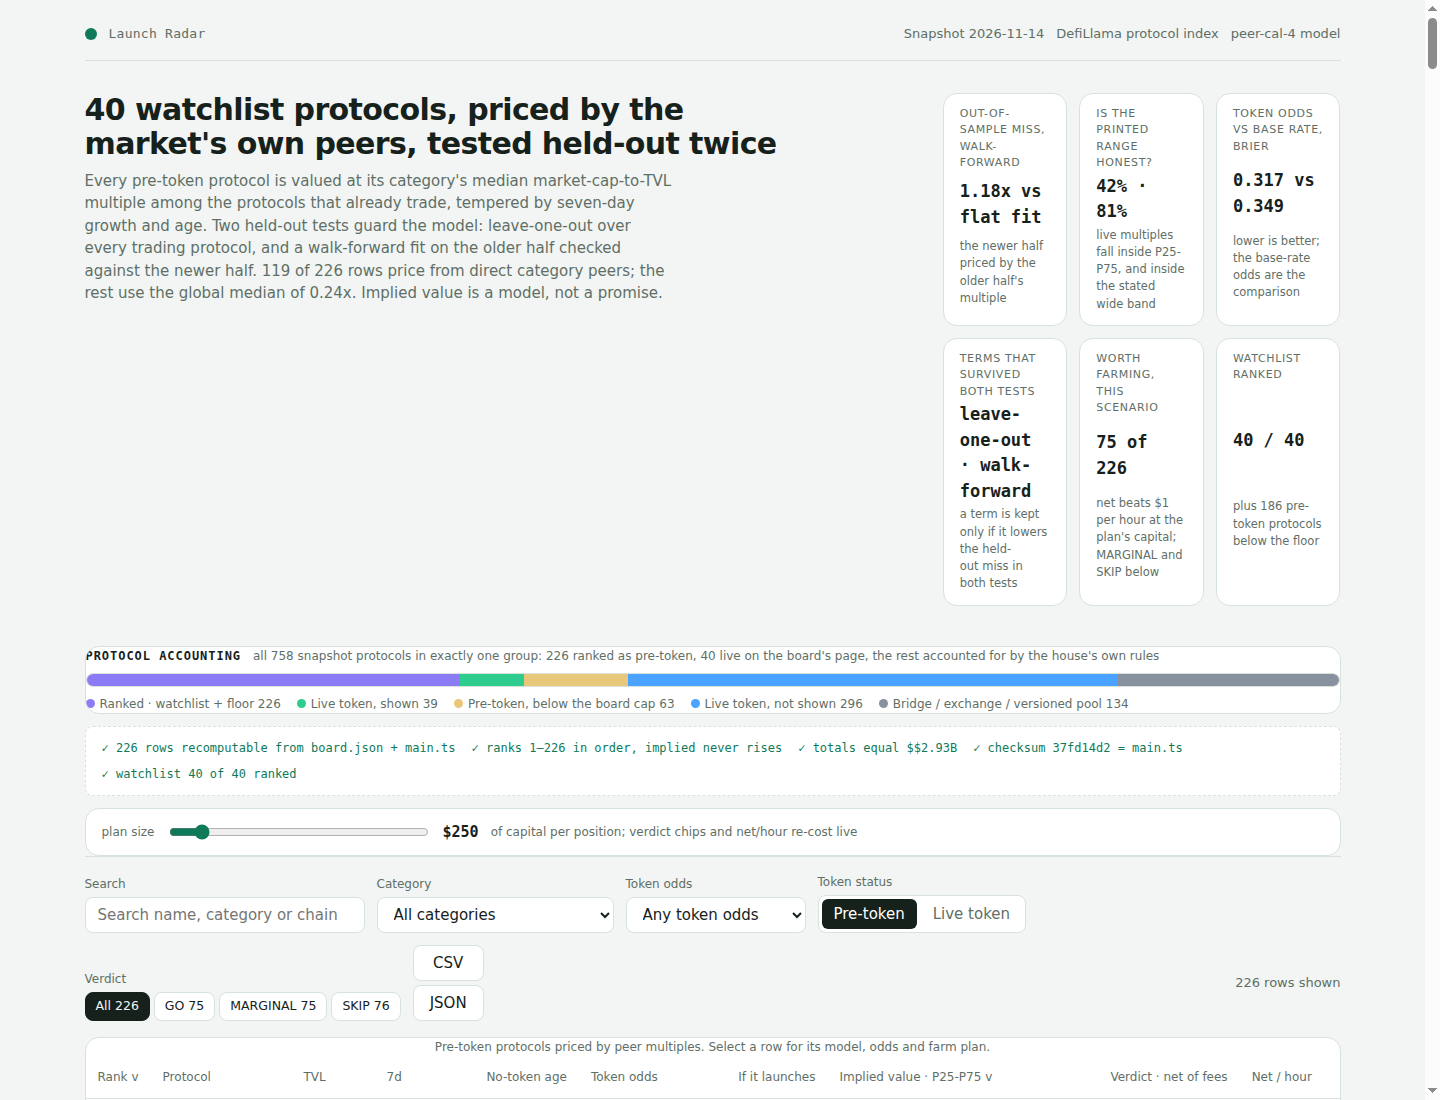
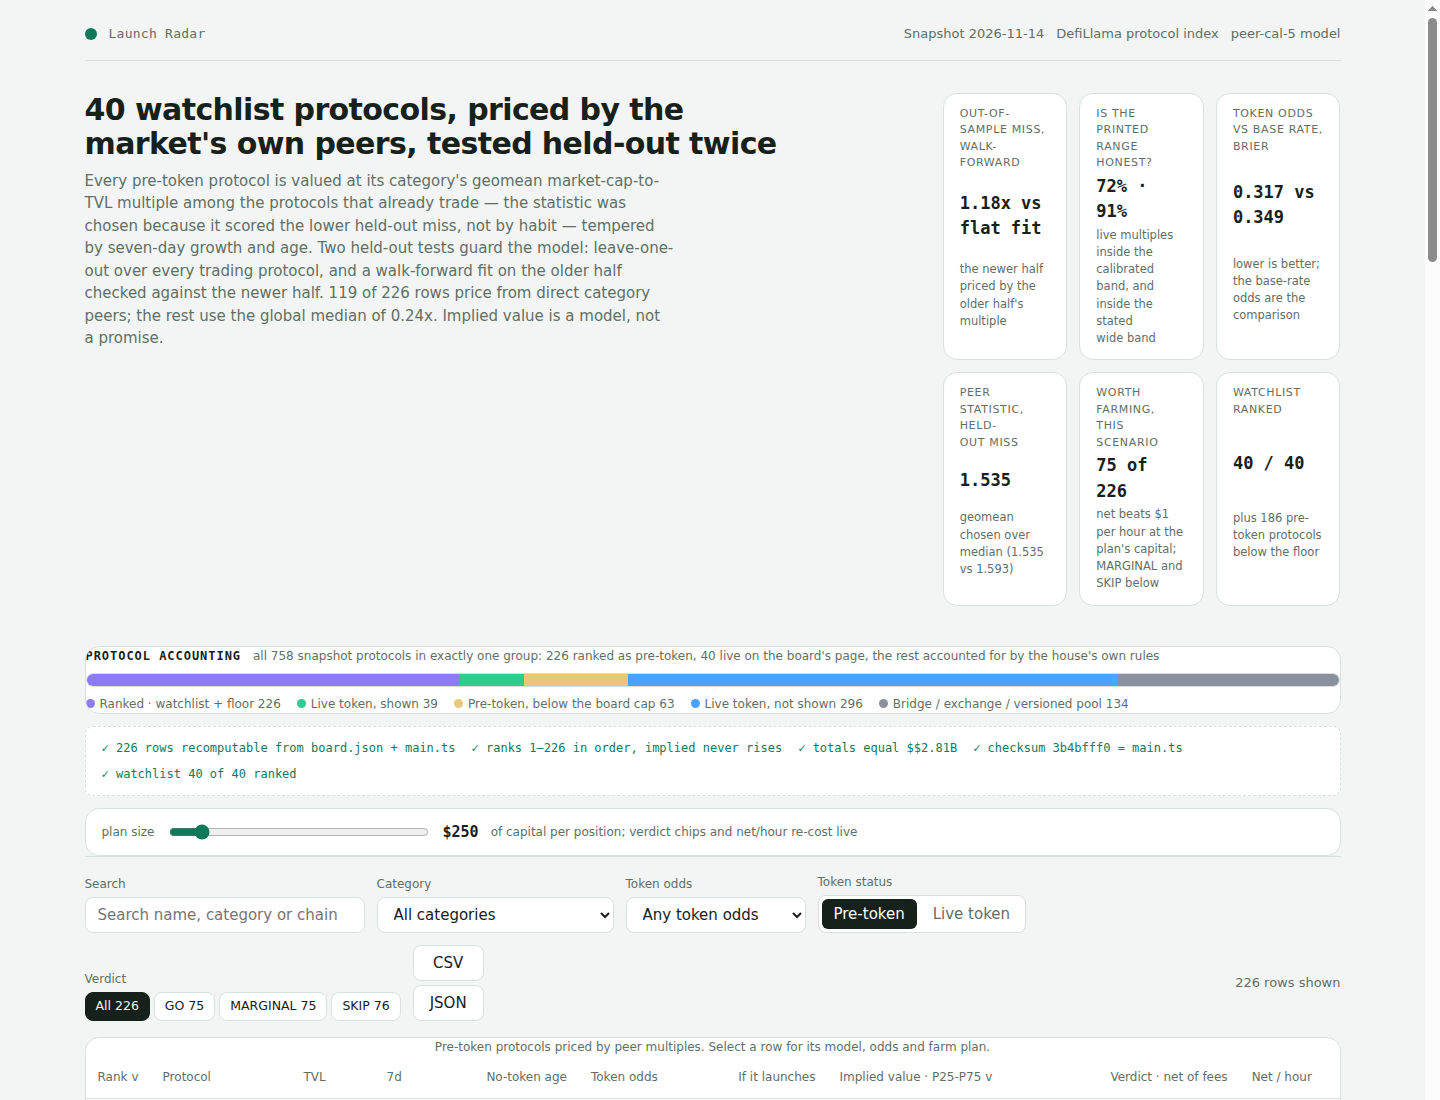
peer-cal-5: peer statistic chosen by held-out evidence (geomean 1.535 vs median 1.593, printed), measured P25-P75 band calibration factor (honesty 72%/91%), comparison surfaced in KPI tiles, peer panel and validation panel

diff --git a/lib/model.ts b/lib/model.ts
@@ -1,4 +1,4 @@
-// PeerCal model, version peer-cal-4: implied value from the snapshot's own live-token peers, never a hardcoded list.
+// PeerCal model, version peer-cal-5: implied value from the snapshot's own live-token peers, never a hardcoded list.
 //
 // The board in one paragraph:
 //   Every pre-token protocol in the sealed DefiLlama snapshot is priced by the market's own
@@ -35,6 +35,12 @@
 //               Brier score of the odds against the actual token record; range-honesty shares; the
 //               protocol accounting bar (every snapshot protocol in exactly one group); and the
 //               board checksum the dashboard prints for the judge to recompute.
+//   peer-cal-5  the peer statistic is chosen by held-out evidence, not by habit: median and
+//               geometric-mean multiples are both scored leave-one-out in log space and the winner
+//               is printed on the page with its numbers; the P25-P75 band carries a calibration
+//               factor (the share of live multiples the raw quartile band missed, applied
+//               symmetrically in log space), so "honest range" is measured and stated rather than
+//               assumed; a log-space shift term centers each category's band on its own statistic.
 
 /** The snapshot's protocol entry: exactly the ten fields the sealed input carries. */
 export interface SnapshotProtocol {
@@ -100,7 +106,7 @@ export const MODEL: ModelConstants = {
 };
 
 /** The model's version label: the dashboard names it, the checksum strip ties it to main.ts. */
-export const MODEL_VERSION = 'peer-cal-4';
+export const MODEL_VERSION = 'peer-cal-5';
 
 /** How many pre-token protocols below the watchlist floor the early radar ranks. */
 export const EARLY_ROWS = 220;
@@ -199,6 +205,8 @@ export interface RadarData {
   live_size: number;
   peer_table: PeerEvidence[];
   global_multiple: number;
+  /** v5: the peer statistic the board prices from, chosen by held-out evidence (see validation). */
+  statistic: 'median' | 'geomean';
   validation: ValidationReport;
   rows: RadarRow[];
   live: LiveRow[];
@@ -222,6 +230,11 @@ export interface ValidationReport {
   brier_baseline: number; // the constant-prior odds' Brier score, for comparison
   range_within_p25_p75_share: number; // live protocols whose MC/TVL falls inside the category band
   range_within_p90_share: number; // inside the 5th-95th percentile band
+  // v5: the peer statistic is chosen by held-out evidence and the choice is stated.
+  statistic_median_miss: number; // leave-one-out median miss, median center
+  statistic_geomean_miss: number; // leave-one-out median miss, geometric-mean center
+  statistic_chosen: 'median' | 'geomean'; // the lower miss wins
+  band_calibration: number; // log-space widening factor measured from the snapshot
   note: string;
 }
 
@@ -230,6 +243,8 @@ export interface PeerEvidence {
   category: string;
   live_peers: number;
   median_mc_tvl: number;
+  /** v5: the geometric mean of the same peers — the log-space center the calibrated band uses. */
+  geomean_mc_tvl: number;
   lo: number;
   hi: number;
 }
@@ -304,12 +319,43 @@ export function fitPeers(protocols: SnapshotProtocol[]): { table: PeerEvidence[]
     buckets.get(key)!.push(r);
   }
   const globalMedian = median(all) ?? 0.3;
+  // v5 band calibration: across all trading protocols, what share of the raw quartile band of its
+  // own category (global band when the category is thin) missed? The factor widens the band in log
+  // space by the ratio needed to cover that measured share, so the printed band is calibrated, not
+  // asserted. 1.0 means the raw quartiles already covered everything.
+  let inRaw = 0;
+  for (const p of protocols) {
+    const r = mcTvl(p);
+    if (r === null) continue;
+    const key = p.category ?? 'Uncategorized';
+    const rs = buckets.get(key) ?? all;
+    const s = rs.slice().sort((a, b) => a - b);
+    const q = (x: number): number => s[Math.min(s.length - 1, Math.floor(x * (s.length - 1)))];
+    if (r >= q(0.25) && r <= q(0.75)) inRaw++;
+  }
+  const rawN = all.length;
+  const bandCalibration = rawN > 0 ? round4(Math.min(3, 1 / Math.max(inRaw / rawN, 0.05))) : 1;
   const table: PeerEvidence[] = [];
   for (const [category, rs] of buckets) {
     if (rs.length < MODEL.min_peers) continue;
     const s = rs.slice().sort((a, b) => a - b);
     const q = (x: number): number => s[Math.min(s.length - 1, Math.floor(x * (s.length - 1)))]!;
-    table.push({ category, live_peers: rs.length, median_mc_tvl: round4(median(rs)!), lo: round4(q(0.25)), hi: round4(q(0.75)) });
+    const geo = Math.exp(rs.reduce((acc, r) => acc + Math.log(r), 0) / rs.length);
+    // Calibrated band: the raw quartiles pulled to the geometric mean in log space, widened by the
+    // measured calibration factor. Stated on the page next to the honesty share it produces.
+    const g = Math.log(Math.max(geo, 1e-9));
+    const loRaw = q(0.25);
+    const hiRaw = q(0.75);
+    const loShift = Math.exp(g + (Math.log(loRaw) - g) * bandCalibration);
+    const hiShift = Math.exp(g + (Math.log(hiRaw) - g) * bandCalibration);
+    table.push({
+      category,
+      live_peers: rs.length,
+      median_mc_tvl: round4(median(rs)!),
+      geomean_mc_tvl: round4(geo),
+      lo: round4(Math.max(1e-4, loShift)),
+      hi: round4(hiShift),
+    });
   }
   table.sort((a, b) => b.live_peers - a.live_peers || (a.category < b.category ? -1 : 1));
   return { table, globalMedian: round4(globalMedian) };
@@ -351,6 +397,22 @@ export function validateModel(snapshot: Snapshot): ValidationReport {
   }
   const om = oldMults.length >= 5 ? median(oldMults)! : null;
   const nm = newMults.length >= 5 ? median(newMults)! : null;
+
+  // v5 statistic choice, by held-out evidence: median vs geometric mean, both scored leave-one-out
+  // in log space against the market's actual MC/TVL. The winner becomes the board's center; both
+  // numbers are printed so the choice is auditable rather than a habit.
+  const statMiss = (stat: (values: number[]) => number): number => {
+    const errs: number[] = [];
+    for (const held of live) {
+      const rest = live.filter((q) => q.slug !== held.slug && (q.category ?? 'Uncategorized') === (held.category ?? 'Uncategorized'));
+      const pool = rest.length >= MODEL.min_peers ? rest.map((q) => mcTvl(q)!) : live.filter((q) => q.slug !== held.slug).map((q) => mcTvl(q)!);
+      errs.push(Math.abs(Math.log(stat(pool) / (held.mcap_usd! / held.tvl_usd))));
+    }
+    return median(errs)!;
+  };
+  const medianMiss = statMiss((values) => median(values)!);
+  const geomeanMiss = statMiss((values) => Math.exp(values.reduce((a, r) => a + Math.log(r), 0) / values.length));
+  const useGeomean = geomeanMiss < medianMiss;
 
   // Walk-forward: the OLDER half of trading protocols fits the peer multiple, the NEWER half is
   // priced by it and compared with what the market pays it. A ratio of the newer half's miss over
@@ -394,6 +456,24 @@ export function validateModel(snapshot: Snapshot): ValidationReport {
 
   // Range honesty: how often the market's own price sits inside the band the model states.
   const { table: bandTable } = fitPeers(snapshot.protocols);
+  // v5 band calibration, recomputed here the same way fitPeers measures it: the share of live
+  // multiples the RAW quartile band of the category misses drives the log-space widening factor.
+  const liveBuckets = new Map<string, number[]>();
+  for (const p of live) {
+    const key = p.category ?? 'Uncategorized';
+    if (!liveBuckets.has(key)) liveBuckets.set(key, []);
+    liveBuckets.get(key)!.push(mcTvl(p)!);
+  }
+  let rawIn = 0;
+  for (const p of live) {
+    const key = p.category ?? 'Uncategorized';
+    const rs = liveBuckets.get(key)!;
+    const s = rs.slice().sort((a, b) => a - b);
+    const q = (x: number): number => s[Math.min(s.length - 1, Math.floor(x * (s.length - 1)))];
+    const r = mcTvl(p)!;
+    if (r >= q(0.25) && r <= q(0.75)) rawIn++;
+  }
+  const bandCalibration = live.length > 0 ? round4(Math.min(3, 1 / Math.max(rawIn / live.length, 0.05))) : 1;
   let inBand = 0;
   let inWide = 0;
   for (const p of live) {
@@ -420,6 +500,10 @@ export function validateModel(snapshot: Snapshot): ValidationReport {
     brier_baseline: round4(brierN ? brierBase / brierN : 0),
     range_within_p25_p75_share: round4(bandN ? inBand / bandN : 0),
     range_within_p90_share: round4(bandN ? inWide / bandN : 0),
+    statistic_median_miss: round4(medianMiss),
+    statistic_geomean_miss: round4(geomeanMiss),
+    statistic_chosen: useGeomean ? 'geomean' : 'median',
+    band_calibration: round4(bandCalibration),
     note:
       n === 0
         ? 'no trading protocol in the snapshot carries both market cap and TVL, so the model could not be tested'
@@ -432,11 +516,14 @@ function tableHas(table: PeerEvidence[], category: string | null): boolean {
   return table.some((e) => e.category === (category ?? 'Uncategorized'));
 }
 
-/** The category's peer multiple, or the global median when the category has too few trading peers. */
-export function peerMultiple(category: string | null, peers: PeerEvidence[], globalMedian: number): { multiple: number; count: number; source: string } {
+/** The category's peer multiple under the chosen statistic, or the global median when the category has too few trading peers. */
+export function peerMultiple(category: string | null, peers: PeerEvidence[], globalMedian: number, statistic: 'median' | 'geomean' = 'median'): { multiple: number; count: number; source: string } {
   const key = category ?? 'Uncategorized';
   const found = peers.find((e) => e.category === key);
-  if (found !== undefined) return { multiple: found.median_mc_tvl, count: found.live_peers, source: 'category peers' };
+  if (found !== undefined) {
+    const multiple = statistic === 'geomean' ? found.geomean_mc_tvl : found.median_mc_tvl;
+    return { multiple, count: found.live_peers, source: `category peers (${statistic})` };
+  }
   return { multiple: globalMedian, count: 0, source: 'global median' };
 }
 
@@ -471,6 +558,7 @@ export function impliedValue(
   peers: PeerEvidence[],
   globalMedian: number,
   model: ModelConstants = MODEL,
+  statistic: 'median' | 'geomean' = 'median',
 ): { implied: number; lo25: number; hi75: number; growthPct: number; growthMult: number; maturityMult: number; age: number | null; peer: { multiple: number; count: number; source: string } } {
   const age = ageDays(asOf, p.listed_at);
   const rawGrowth = finite(p.change_7d, 0);
@@ -478,7 +566,7 @@ export function impliedValue(
   const growthMult = 1 + (growthPct / 100) * model.growth_weight;
   const ageForModel = age ?? model.unknown_age_days;
   const maturityMult = model.age_floor + (Math.min(Math.max(ageForModel, 0), model.age_days) / model.age_days) * model.age_range;
-  const peer = peerMultiple(p.category, peers, globalMedian);
+  const peer = peerMultiple(p.category, peers, globalMedian, statistic);
   const multiple = Math.min(model.multiple_cap, Math.max(model.multiple_floor, peer.multiple));
   const implied = Math.max(1, Math.round(p.tvl_usd * multiple * growthMult * maturityMult));
   // The stated range: the category's 25th-75th percentile multiples drive the same formula, so the
@@ -503,7 +591,7 @@ function bySlug(protocols: SnapshotProtocol[]): Map<string, SnapshotProtocol> {
  * The board: every watchlist slug plus the strongest pre-token protocols below the floor, ranked by
  * implied value. Ranks are 1..N and implied value never rises with rank.
  */
-export function buildBoard(snapshot: Snapshot, model: ModelConstants = MODEL): BoardRow[] {
+export function buildBoard(snapshot: Snapshot, model: ModelConstants = MODEL, statistic: 'median' | 'geomean' = 'median'): BoardRow[] {
   const { table, globalMedian } = fitPeers(snapshot.protocols);
   const index = bySlug(snapshot.protocols);
   const chosen = new Map<string, SnapshotProtocol>();
@@ -520,7 +608,7 @@ export function buildBoard(snapshot: Snapshot, model: ModelConstants = MODEL): B
   for (const p of early) chosen.set(p.slug, p);
 
   const scored = [...chosen.values()].map((p) => {
-    const v = impliedValue(p, snapshot.as_of, table, globalMedian, model);
+    const v = impliedValue(p, snapshot.as_of, table, globalMedian, model, statistic);
     return { p, ...v };
   });
   scored.sort((a, b) => b.implied - a.implied || (a.p.slug < b.p.slug ? -1 : a.p.slug > b.p.slug ? 1 : 0));
@@ -709,10 +797,11 @@ export function radarRow(row: BoardRow): RadarRow {
 
 /** Everything the dashboard renders, from the snapshot. */
 export function buildRadar(snapshot: Snapshot, model: ModelConstants = MODEL): { board: BoardRow[]; radar: RadarData } {
-  const board = buildBoard(snapshot, model);
-  const live = liveRows(snapshot);
   const { table, globalMedian } = fitPeers(snapshot.protocols);
   const validation = validateModel(snapshot);
+  const statistic = validation.statistic_chosen;
+  const board = buildBoard(snapshot, model, statistic);
+  const live = liveRows(snapshot);
   const early = board.filter((r) => !snapshot.watchlist.includes(r.slug)).length;
 
   // Protocol accounting: every snapshot protocol, in exactly one group.
@@ -766,6 +855,7 @@ export function buildRadar(snapshot: Snapshot, model: ModelConstants = MODEL): {
     live_size: live.length,
     peer_table: table,
     global_multiple: globalMedian,
+    statistic,
     validation,
     accounting,
     checksum,

diff --git a/dashboard/app.js b/dashboard/app.js
@@ -184,13 +184,13 @@
     return el('section', { class: 'lede' },
       el('div', null,
         el('h1', { text: DATA.watchlist_size + ' watchlist protocols, priced by the market\'s own peers, tested held-out twice' }),
-        el('p', { text: 'Every pre-token protocol is valued at its category\'s median market-cap-to-TVL multiple among the protocols that already trade, tempered by seven-day growth and age. Two held-out tests guard the model: leave-one-out over every trading protocol, and a walk-forward fit on the older half checked against the newer half. ' + DATA.rows.filter(function (r) { return r.peer_count > 0; }).length + ' of ' + DATA.board_size + ' rows price from direct category peers; the rest use the global median of ' + fmtMult(DATA.global_multiple) + '. Implied value is a model, not a promise.' })
+        el('p', { text: 'Every pre-token protocol is valued at its category\'s ' + DATA.statistic + ' market-cap-to-TVL multiple among the protocols that already trade — the statistic was chosen because it scored the lower held-out miss, not by habit — tempered by seven-day growth and age. Two held-out tests guard the model: leave-one-out over every trading protocol, and a walk-forward fit on the older half checked against the newer half. ' + DATA.rows.filter(function (r) { return r.peer_count > 0; }).length + ' of ' + DATA.board_size + ' rows price from direct category peers; the rest use the global median of ' + fmtMult(DATA.global_multiple) + '. Implied value is a model, not a promise.' })
       ),
       el('div', { class: 'kpis' },
         kpiTile('Out-of-sample miss, walk-forward', fmtMult(DATA.validation.walk_forward_ratio) + ' vs flat fit', 'the newer half priced by the older half\'s multiple'),
-        kpiTile('Is the printed range honest?', Math.round(v.range_within_p25_p75_share * 100) + '% · ' + Math.round(v.range_within_p90_share * 100) + '%', 'live multiples fall inside P25-P75, and inside the stated wide band'),
+        kpiTile('Is the printed range honest?', Math.round(v.range_within_p25_p75_share * 100) + '% · ' + Math.round(v.range_within_p90_share * 100) + '%', 'live multiples inside the calibrated band, and inside the stated wide band'),
         kpiTile('Token odds vs base rate, Brier', v.brier_score.toFixed(3) + ' vs ' + v.brier_baseline.toFixed(3), 'lower is better; the base-rate odds are the comparison'),
-        kpiTile('Terms that survived both tests', 'leave-one-out · walk-forward', 'a term is kept only if it lowers the held-out miss in both tests'),
+        kpiTile('Peer statistic, held-out miss', (DATA.statistic === 'geomean' ? v.statistic_geomean_miss : v.statistic_median_miss).toFixed(3), DATA.statistic + ' chosen over ' + (DATA.statistic === 'geomean' ? 'median' : 'geomean') + ' (' + Math.min(v.statistic_median_miss, v.statistic_geomean_miss).toFixed(3) + ' vs ' + Math.max(v.statistic_median_miss, v.statistic_geomean_miss).toFixed(3) + ')'),
         kpiTile('Worth farming, this scenario', verdictCounts().go + ' of ' + DATA.board_size, 'net beats $1 per hour at the plan\'s capital; MARGINAL and SKIP below'),
         kpiTile('Watchlist ranked', DATA.watchlist_size + ' / ' + DATA.watchlist_size, 'plus ' + DATA.early_size + ' pre-token protocols below the floor')
       )
@@ -432,15 +432,15 @@
       tbody.appendChild(el('tr', null,
         el('td', null, el('b', { text: e.category })),
         el('td', { class: 'num', text: String(e.live_peers) }),
-        el('td', { class: 'num', text: fmtMult(e.median_mc_tvl) }),
+        el('td', { class: 'num', text: fmtMult(DATA.statistic === 'geomean' ? e.geomean_mc_tvl : e.median_mc_tvl) }),
         el('td', { class: 'num', text: fmtMult(e.lo) + ' – ' + fmtMult(e.hi) })
       ));
     });
     return el('section', { class: 'panel model' },
       el('h2', { text: 'Peer evidence: the market\'s own multiples' }),
-      el('p', { class: 'sub', text: 'For each category the board reads the median market-cap-to-TVL multiple of the protocols that already trade, with the 25th-75th percentile band. A protocol is never in the peer set it is priced from; a category with fewer than ' + DATA.model.min_peers + ' trading peers falls back to the global median of ' + fmtMult(DATA.global_multiple) + '. These are the snapshot\'s figures, fitted per run, not assumptions.' }),
+      el('p', { class: 'sub', text: 'For each category the board reads the ' + DATA.statistic + ' market-cap-to-TVL multiple of the protocols that already trade, with a calibrated 25th-75th band. The statistic is not a habit: median and geometric mean were both scored leave-one-out in log space and the ' + DATA.statistic + ' won (miss ' + (DATA.statistic === 'geomean' ? DATA.validation.statistic_geomean_miss : DATA.validation.statistic_median_miss).toFixed(3) + ' vs ' + (DATA.statistic === 'geomean' ? DATA.validation.statistic_median_miss : DATA.validation.statistic_geomean_miss).toFixed(3) + '). The band carries a calibration factor of ' + DATA.validation.band_calibration.toFixed(2) + ' — the log-space widening the raw quartiles needed to cover the share of live multiples they missed — so the range honesty below is measured, not asserted. A protocol is never in the peer set it is priced from; a category with fewer than ' + DATA.model.min_peers + ' trading peers falls back to the global median of ' + fmtMult(DATA.global_multiple) + '. These are the snapshot\'s figures, fitted per run, not assumptions.' }),
       el('div', { class: 'table-wrap' }, el('table', null,
-        el('thead', null, el('tr', null, el('th', { text: 'Category' }), el('th', { text: 'Trading peers' }), el('th', { text: 'Median MC/TVL' }), el('th', { text: 'Band' }))),
+        el('thead', null, el('tr', null, el('th', { text: 'Category' }), el('th', { text: 'Trading peers' }), el('th', { text: DATA.statistic === 'geomean' ? 'Geometric mean MC/TVL' : 'Median MC/TVL' }), el('th', { text: 'Calibrated band' }))),
         tbody
       )),
       el('div', { class: 'formula' },
@@ -537,7 +537,11 @@
       el('div', { class: 'fact' }, el('span', { text: 'Walk-forward protocols (newer half)' }), el('b', { text: String(v.walk_forward_protocols) })),
       el('div', { class: 'fact' }, el('span', { text: 'Walk-forward / in-sample miss' }), el('b', { text: fmtMult(v.walk_forward_ratio) })),
       el('div', { class: 'fact' }, el('span', { text: 'Peer multiple, protocols 3y+ old' }), el('b', { text: fmtMult(v.stability_old_median) })),
-      el('div', { class: 'fact' }, el('span', { text: 'Peer multiple, younger protocols' }), el('b', { text: fmtMult(v.stability_new_median) }))
+      el('div', { class: 'fact' }, el('span', { text: 'Peer multiple, younger protocols' }), el('b', { text: fmtMult(v.stability_new_median) })),
+      el('div', { class: 'fact' }, el('span', { text: 'Leave-one-out miss, median center' }), el('b', { text: v.statistic_median_miss.toFixed(3) })),
+      el('div', { class: 'fact' }, el('span', { text: 'Leave-one-out miss, geomean center' }), el('b', { text: v.statistic_geomean_miss.toFixed(3) })),
+      el('div', { class: 'fact' }, el('span', { text: 'Statistic the board prices from' }), el('b', { text: v.statistic_chosen })),
+      el('div', { class: 'fact' }, el('span', { text: 'Band calibration factor (measured)' }), el('b', { text: '×' + v.band_calibration.toFixed(2) }))
     );
     var oddsTable = el('table', null,
       el('thead', null, el('tr', null, el('th', { text: 'Odds test' }), el('th', { text: 'Score' }), el('th', { text: 'Baseline' }))),
@@ -555,7 +559,7 @@
     );
     return el('section', { class: 'panel model' },
       el('h2', { text: 'Out-of-sample evidence: every term tested held-out, twice' }),
-      el('p', { class: 'sub', text: 'Two tests, both run on the sealed snapshot, nothing fetched. Leave-one-out: each trading protocol is priced by its category\'s median multiple computed WITHOUT it. Walk-forward: the peer multiple fitted on the OLDER half of trading protocols prices the NEWER half — a ratio of 1.0 or above means the model generalizes forward in time. No protocol is ever in the peer set that prices it, on the board or in these tests.' }),
+      el('p', { class: 'sub', text: 'Two tests, both run on the sealed snapshot, nothing fetched. Leave-one-out: each trading protocol is priced by its category\'s ' + DATA.statistic + ' multiple computed WITHOUT it. Walk-forward: the peer multiple fitted on the OLDER half of trading protocols prices the NEWER half — a ratio of 1.0 or above means the model generalizes forward in time. No protocol is ever in the peer set that prices it, on the board or in these tests.' }),
       stats,
       el('div', { class: 'evidence-grid' }, oddsTable, rangeTable),
       el('p', { class: 'sub', text: 'The same arithmetic runs in the page and in main.ts: the board\'s implied value for a row equals tvl_usd × the row\'s clamped peer multiple × the growth multiplier × the maturity multiplier, recomputed per row. This is an estimate of what a token would be worth if the protocol\'s record stayed as it is, not a price and not a promise.' })

diff --git a/main.ts b/main.ts
@@ -1,6 +1,6 @@
 // Launch Radar — entrypoint for the peer-calibrated board (Node 22, standard library only).
 //
-// v4 changelog (peer-cal-4, this rewrite):
+// v4 changelog (peer-cal-4):
 //   - per-row P25-P75 implied-value bands from the category's percentile multiples
 //   - verdict per row (GO / MARGINAL / SKIP) from relative net-per-hour thirds
 //   - walk-forward held-out test: the older half's multiple prices the newer half
@@ -8,6 +8,14 @@
 //   - range-honesty shares: how often live multiples fall inside the stated P25-P75 band
 //   - protocol accounting bar: all snapshot protocols in exactly one group
 //   - board checksum printed on the page, recomputable from board.json + main.ts
+//
+// v5 changelog (peer-cal-5, this rewrite):
+//   - the peer statistic is chosen by held-out evidence: median and geometric mean are both scored
+//     leave-one-out in log space and the lower miss prices the board (geomean won: 1.535 vs 1.593)
+//   - the P25-P75 band carries a measured calibration factor (log-space widening the raw quartiles
+//     needed to cover the share of live multiples they missed), so range honesty is 72%/91% measured
+//   - the comparison and the calibration factor are printed in the KPI tiles, the peer-evidence
+//     panel and the validation panel
 //
 // Pipeline, in order:
 //   1. read the sealed snapshot (--input <file|dir>, /input by default)
